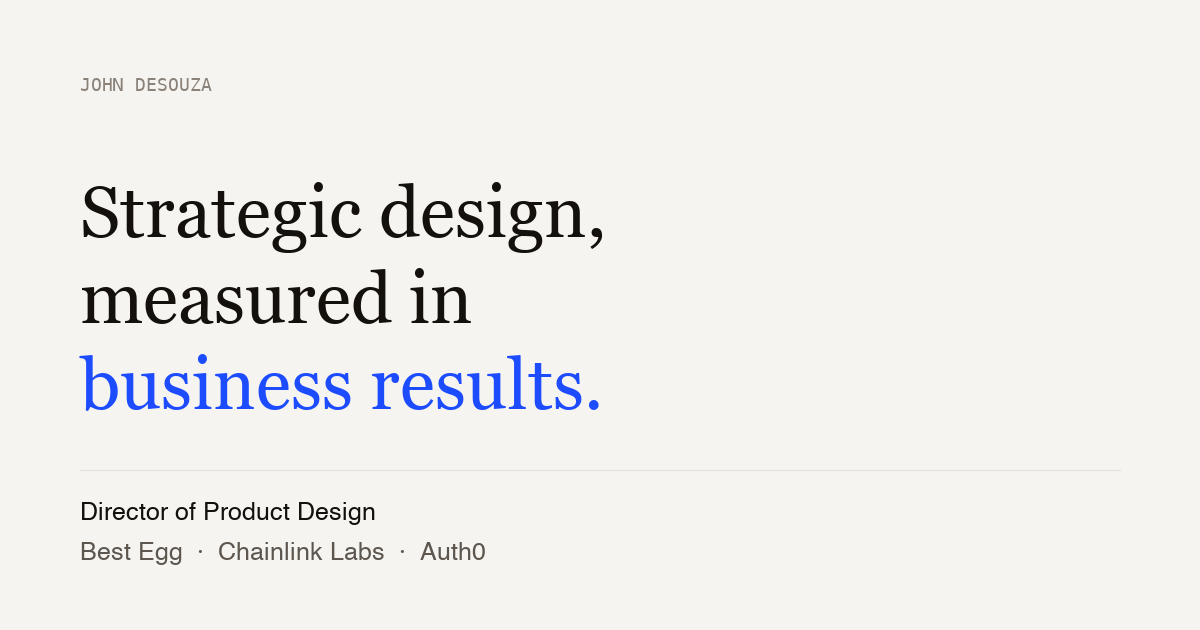
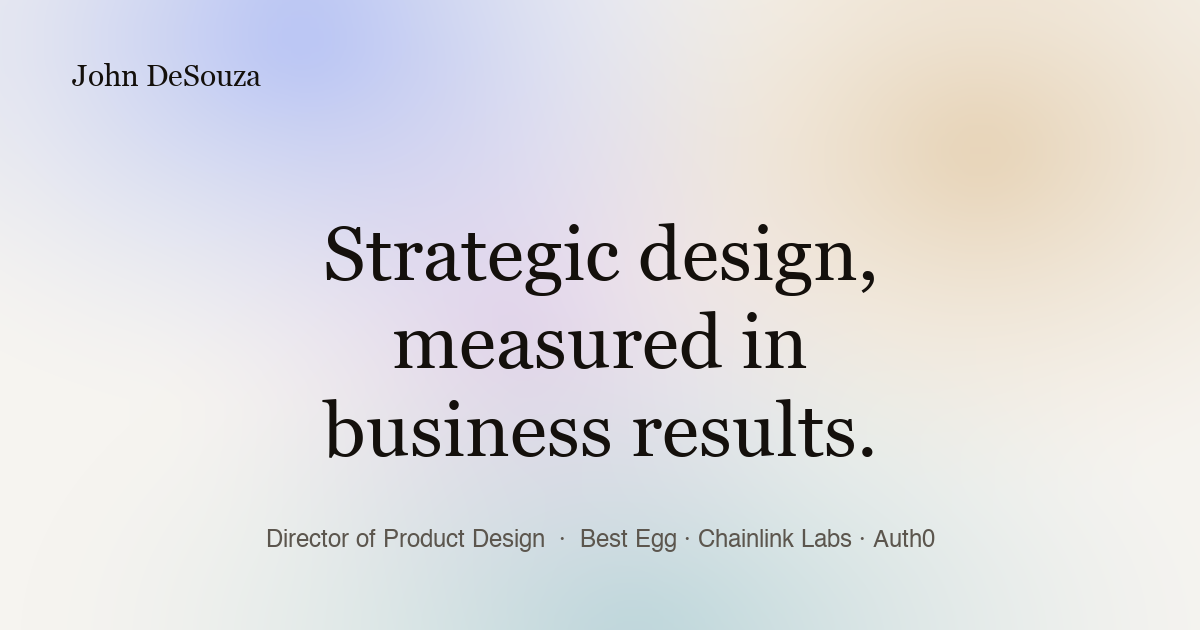
Refresh the social card and give every page a preview
The shared link still showed the old two-tone headline. The card now matches
the live hero: centred serif statement in one ink colour, wordmark top left,
and the hero's drifting colour fields rendered as a still.

The five case studies and the work index had no og:image at all, so a link to
any of them previewed blank. All seven pages now carry og:image, og:url,
og:type and a twitter:card, each pointing at its own canonical URL.

The image URL carries a content hash so the scrapers fetch the new one instead
of the copy they already cached.

diff --git a/work/cross-sell.html b/work/cross-sell.html
@@ -6,7 +6,11 @@
 <title>Cross-Sell: Vehicle Equity & Home Secured Loans — John DeSouza</title>
 <meta name="description" content="How Best Egg turned loan declines into $7.56M of new secured-loan originations in five months. A 0→1 case study led by John DeSouza.">
 <meta property="og:title" content="Cross-Sell: Vehicle Equity & Home Secured Loans — John DeSouza">
+<meta property="og:type" content="article">
+<meta property="og:url" content="https://john-desouza.com/work/cross-sell.html">
+<meta property="og:image" content="https://john-desouza.com/og-image.png?v=81531678">
 <meta property="og:description" content="Turning a loan decline into a second offer: $7.56M in new secured-loan originations in five months.">
+<meta name="twitter:card" content="summary_large_image">
 <link rel="icon" href="../favicon.svg" type="image/svg+xml">
 <link rel="preconnect" href="https://fonts.googleapis.com">
 <link rel="preconnect" href="https://fonts.gstatic.com" crossorigin>

diff --git a/work/verifications.html b/work/verifications.html
@@ -6,7 +6,11 @@
 <title>Verifications — John DeSouza</title>
 <meta name="description" content="Redesigning Best Egg's document verification experience to cut call volume and lift applicant conversion, validated with an A/B test. A case study by John DeSouza.">
 <meta property="og:title" content="Verifications — John DeSouza">
+<meta property="og:type" content="article">
+<meta property="og:url" content="https://john-desouza.com/work/verifications.html">
+<meta property="og:image" content="https://john-desouza.com/og-image.png?v=81531678">
 <meta property="og:description" content="Closing the loop after document upload: 7,000 fewer calls a month and +180 bps verification rate, sized and tested.">
+<meta name="twitter:card" content="summary_large_image">
 <link rel="icon" href="../favicon.svg" type="image/svg+xml">
 <link rel="preconnect" href="https://fonts.googleapis.com">
 <link rel="preconnect" href="https://fonts.gstatic.com" crossorigin>

diff --git a/work/staking.html b/work/staking.html
@@ -6,7 +6,11 @@
 <title>Staking v0.1 — John DeSouza</title>
 <meta name="description" content="Chainlink Staking v0.1: a crypto staking interface that reached 25M LINK and full capacity within three hours of launch. A case study by John DeSouza.">
 <meta property="og:title" content="Staking v0.1 — John DeSouza">
+<meta property="og:type" content="article">
+<meta property="og:url" content="https://john-desouza.com/work/staking.html">
+<meta property="og:image" content="https://john-desouza.com/og-image.png?v=81531678">
 <meta property="og:description" content="Removing friction from staking LINK: 25M LINK staked and full capacity within three hours of launch.">
+<meta name="twitter:card" content="summary_large_image">
 <link rel="icon" href="../favicon.svg" type="image/svg+xml">
 <link rel="preconnect" href="https://fonts.googleapis.com">
 <link rel="preconnect" href="https://fonts.gstatic.com" crossorigin>

diff --git a/work/sign-in-with-ethereum.html b/work/sign-in-with-ethereum.html
@@ -6,7 +6,11 @@
 <title>Sign-in with Ethereum — John DeSouza</title>
 <meta name="description" content="Sign-in with Ethereum at Auth0: wallet-based login that keeps users in control of their identity. A case study by John DeSouza.">
 <meta property="og:title" content="Sign-in with Ethereum — John DeSouza">
+<meta property="og:type" content="article">
+<meta property="og:url" content="https://john-desouza.com/work/sign-in-with-ethereum.html">
+<meta property="og:image" content="https://john-desouza.com/og-image.png?v=81531678">
 <meta property="og:description" content="Making wallet-based identity low-friction for people who have never used web3.">
+<meta name="twitter:card" content="summary_large_image">
 <link rel="icon" href="../favicon.svg" type="image/svg+xml">
 <link rel="preconnect" href="https://fonts.googleapis.com">
 <link rel="preconnect" href="https://fonts.gstatic.com" crossorigin>

diff --git a/work/no-code-tools.html b/work/no-code-tools.html
@@ -6,7 +6,11 @@
 <title>No-code tools — John DeSouza</title>
 <meta name="description" content="Auth0 no-code tools: letting teams build authentication flows through visual configuration instead of code. A case study by John DeSouza.">
 <meta property="og:title" content="No-code tools — John DeSouza">
+<meta property="og:type" content="article">
+<meta property="og:url" content="https://john-desouza.com/work/no-code-tools.html">
+<meta property="og:image" content="https://john-desouza.com/og-image.png?v=81531678">
 <meta property="og:description" content="Lowering barriers to implementation at Auth0 without taking control away from developers.">
+<meta name="twitter:card" content="summary_large_image">
 <link rel="icon" href="../favicon.svg" type="image/svg+xml">
 <link rel="preconnect" href="https://fonts.googleapis.com">
 <link rel="preconnect" href="https://fonts.gstatic.com" crossorigin>

diff --git a/work.html b/work.html
@@ -8,7 +8,7 @@
 <meta property="og:title" content="John DeSouza — Director of Product Design">
 <meta property="og:description" content="Strategic design, measured in business results. Case studies from Best Egg, Chainlink Labs and Auth0.">
 <meta property="og:type" content="website">
-<meta property="og:image" content="https://john-desouza.com/og-image.png">
+<meta property="og:image" content="https://john-desouza.com/og-image.png?v=81531678">
 <meta property="og:url" content="https://john-desouza.com/work.html">
 <meta name="twitter:card" content="summary_large_image">
 <link rel="icon" href="favicon.svg" type="image/svg+xml">

diff --git a/index.html b/index.html
@@ -8,7 +8,7 @@
 <meta property="og:title" content="John DeSouza — Director of Product Design">
 <meta property="og:description" content="Strategic design, measured in business results. Case studies from Best Egg, Chainlink Labs and Auth0.">
 <meta property="og:type" content="website">
-<meta property="og:image" content="https://john-desouza.com/og-image.png">
+<meta property="og:image" content="https://john-desouza.com/og-image.png?v=81531678">
 <meta property="og:url" content="https://john-desouza.com/">
 <meta name="twitter:card" content="summary_large_image">
 <link rel="icon" href="favicon.svg" type="image/svg+xml">
